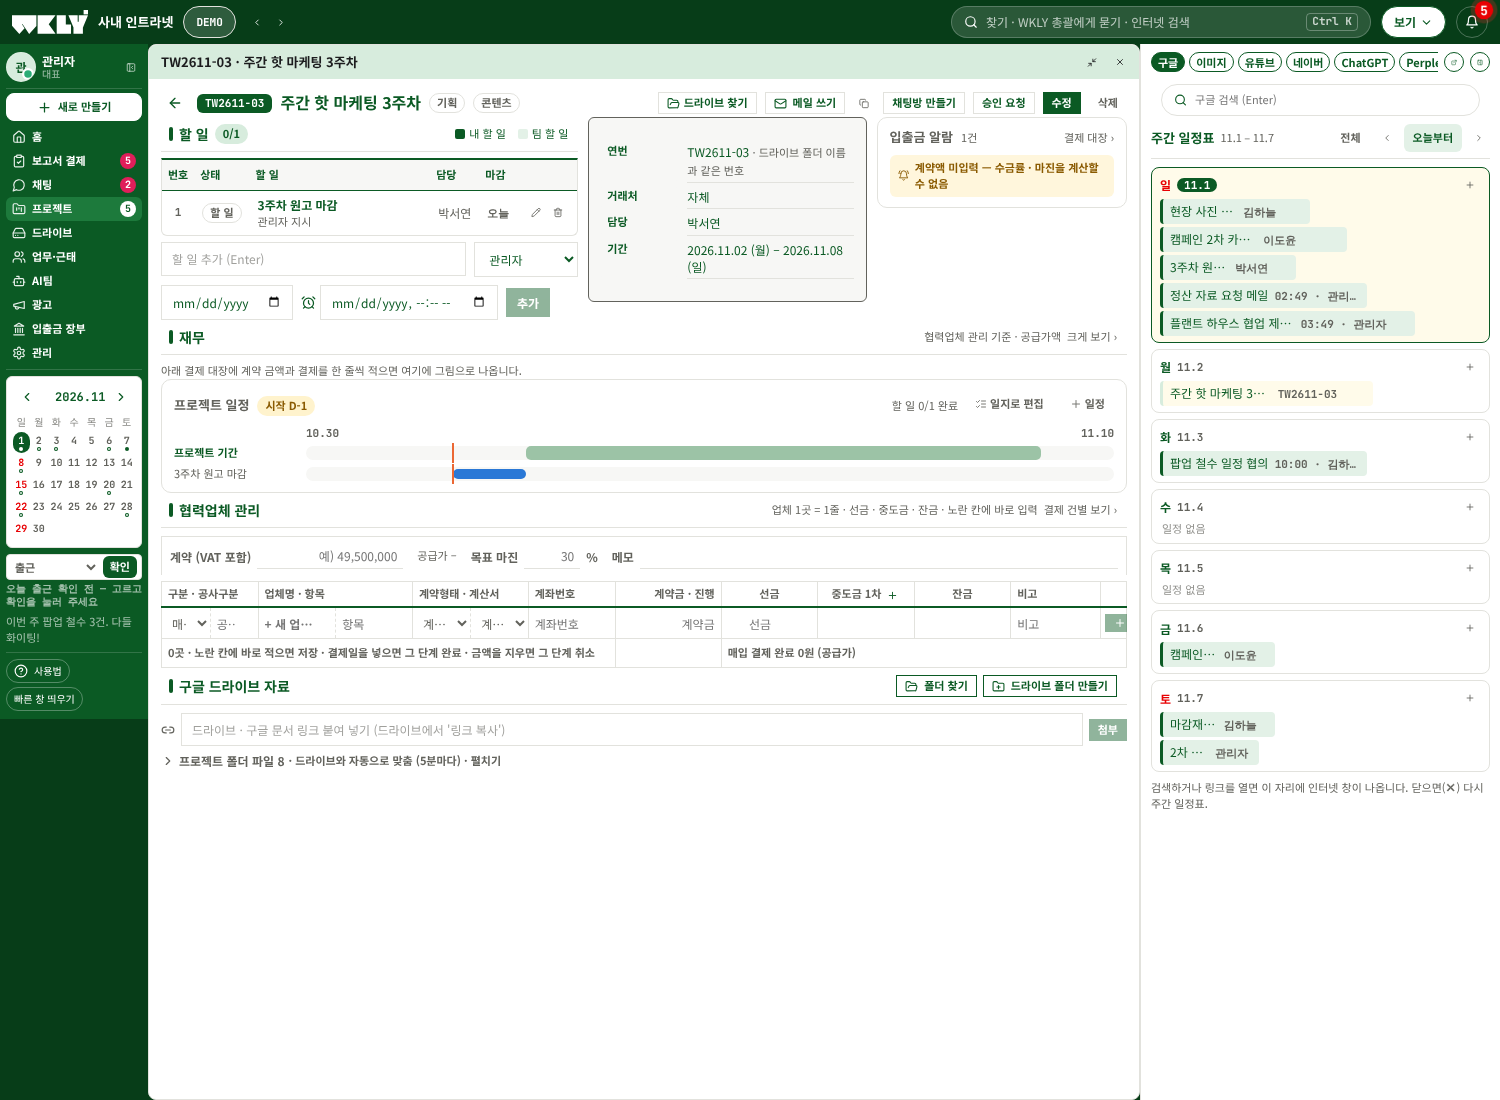
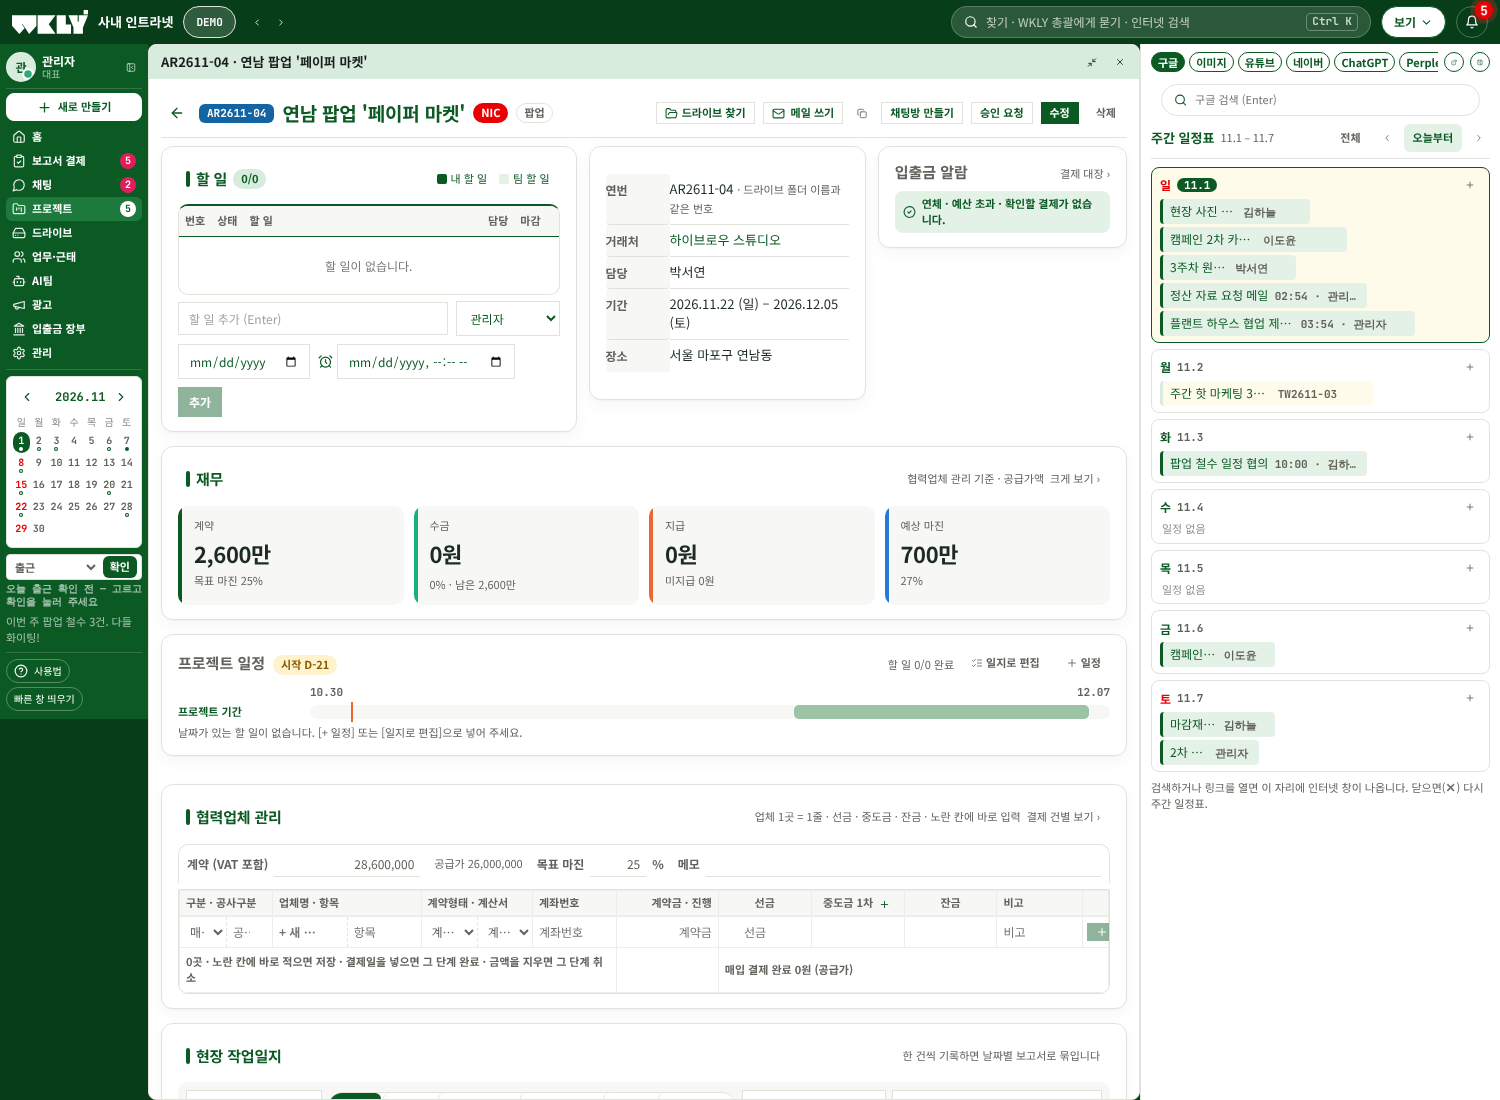
프로젝트 상세 디자인 고도화 (#229)
* 메모 링크 클릭 가능 · 일정표 프로젝트 고르기를 풀다운으로

- 메모 칸 아래 링크 칩(새 창), 저장된 메모의 링크도 클릭
- 일정표 프로젝트 칩 목록을 상태별 묶음 풀다운으로

Claude-Session: https://claude.ai/code/session_01F3gTQwJrgJEzSdbh5GAwru

* 일정표: NIC 프로젝트는 접힌 묶음으로

Claude-Session: https://claude.ai/code/session_01F3gTQwJrgJEzSdbh5GAwru

* WKLY 총괄 실시간 답(스트리밍) · 자료실 종류 풀다운 · 웹 패널 검색창 · 프로젝트 목록 묶음 구분

- agent-chat: 답을 쓰는 대로 Realtime 비공개 방송, 화면은 말풍선에 실시간 표시 (0062 정책)
- 자료실: 상태 · 종류 풀다운(실제 종류 전부 + 개수), 자주 쓰는 종류 칩, 상세에서 종류 · 상태 바로 변경
- 웹 패널 안에 검색창 다시 표시
- 프로젝트 검색 목록: 묶음 머리 색 · 개수 · 접기 (완료 · 보류는 접힘), 연번 표시

Claude-Session: https://claude.ai/code/session_01F3gTQwJrgJEzSdbh5GAwru

* 보고서 링크 클릭 · 업무 일지 입력칸 정리

- AI 보고서 요약 · 본문 속 링크를 모두 클릭 가능하게
- 업무 일지 입력: 종류 풀다운 · 분 · 기록 한 줄, 내용칸 넓게, 거래처 · 프로젝트는 아래 한 줄

Claude-Session: https://claude.ai/code/session_01F3gTQwJrgJEzSdbh5GAwru

* 업무 화면 정리: 할 일 오른쪽 창 · 프로젝트 구분 · 여백 정리

- 업무 일지의 할 일 · 메모장을 오른쪽 창으로 (좁은 화면은 아래), 할 일 버튼에 지연 개수
- 프로젝트 검색 목록: 상태 묶음 안에서 더위클리 · 아트리어 · 내부 리서치로 나눠 색 표시
- 뒤로 · 앞으로를 위쪽 바로 옮겨 가운데 위 한 줄 제거, 업무 머리줄 한 줄로

Claude-Session: https://claude.ai/code/session_01F3gTQwJrgJEzSdbh5GAwru

* 프로젝트: 가운데 목록 · 오른쪽 대시보드 요약/상세

- 넓은 화면 첫 화면: 가운데 프로젝트 목록, 오른쪽 창 대시보드 요약, 프로젝트를 누르면 오른쪽이 그 프로젝트 상세

Claude-Session: https://claude.ai/code/session_01F3gTQwJrgJEzSdbh5GAwru

* 디자인: 슬랙식 화면 · 키 컬러 초록(#0B5A24)

- 노란 바탕 · 점선 틀 제거, 창 가득 · 얇은 실선
- 위쪽 바 · 왼쪽 사이드바 짙은 초록, 본문 흰색, 선택 · 버튼 초록, 알림 숫자 빨강
- 아트리어 구분색 파랑, 브라우저 탭 색 · 아이콘 초록, 다크 모드 색 맞춤

Claude-Session: https://claude.ai/code/session_01F3gTQwJrgJEzSdbh5GAwru
[…]

diff --git a/erp/src/styles.css b/erp/src/styles.css
@@ -2746,3 +2746,57 @@ html.detail-full .detail-col.full .col-resize { display: none; }
 .proj-top3 { display: grid; grid-template-columns: minmax(0, 1.5fr) minmax(0, 1fr) minmax(0, 0.9fr); gap: 10px; align-items: start; }
 .proj-top3 > .box { margin: 0; }
 @media (max-width: 1100px) { .proj-top3 { grid-template-columns: 1fr; } }
+
+/* ───────── 프로젝트 상세 디자인 고도화 (2026-10-31) ─────────
+   카드 단위로 구역을 나누고(흰 바탕 · 옅은 테두리 · 그림자), 머리줄 고정, 숫자 강조, 표 머리 정리 */
+.proj-detail { display: flex; flex-direction: column; gap: 14px; padding-bottom: 24px; }
+.proj-detail .proj-head { position: sticky; top: 0; z-index: 6; background: var(--white); padding: 10px 2px; margin: -4px 0 -2px; border-bottom: 1px solid var(--line); gap: 8px; }
+.proj-detail .proj-head h2, .proj-detail .proj-head .proj-title { font-size: 19px; letter-spacing: -0.2px; }
+.proj-detail > .section,
+.proj-detail > .col,
+.proj-detail > .proj-top3 > *,
+.proj-detail > .proj-side-row > *,
+.proj-detail > .pviz-card,
+.proj-detail .pviz-row > .pviz-card {
+  background: var(--white);
+  border: 1px solid var(--line);
+  border-radius: 12px;
+  padding: 14px 16px;
+  box-shadow: 0 1px 2px rgba(18, 40, 24, 0.04), 0 6px 18px rgba(18, 40, 24, 0.04);
+}
+.proj-detail > .proj-top3 { gap: 12px; }
+.proj-detail > .proj-top3 > .box { margin: 0; border-width: 1px; }
+.proj-detail .section-h { border-bottom: 0; padding-bottom: 6px; margin-bottom: 2px; }
+.proj-detail .section-h .t-bodyb { font-size: 15px; letter-spacing: -0.2px; }
+.proj-detail .section-h::before { height: 16px; background: var(--blue); }
+/* 개요 */
+.proj-detail .kv { grid-template-columns: 64px 1fr; gap: 0; font-size: 13px; }
+.proj-detail .kv dt { padding: 7px 0; color: var(--gray); font-size: 12px; border-bottom: 1px solid var(--line); }
+.proj-detail .kv dd { padding: 6px 0; color: #1d2b21; border-bottom: 1px solid var(--line); }
+.proj-detail .kv dt:last-of-type, .proj-detail .kv dd:last-of-type { border-bottom: 0; }
+/* 재무 4칸 */
+.proj-detail .fin-tiles { gap: 10px; }
+.proj-detail .fin-tile { position: relative; border: 0; border-radius: 10px; background: var(--paper); padding: 12px 14px 12px 16px; overflow: hidden; }
+.proj-detail .fin-tile::before { content: ''; position: absolute; left: 0; top: 0; bottom: 0; width: 4px; background: var(--blue); }
+.proj-detail .fin-tile:nth-child(2)::before { background: #1baf7a; }
+.proj-detail .fin-tile:nth-child(3)::before { background: #eb6834; }
+.proj-detail .fin-tile:nth-child(4)::before { background: #2a78d6; }
+.proj-detail .fin-num { font-size: 22px; letter-spacing: -0.4px; color: #1d2b21; }
+/* 일정 · 알람 카드 */
+.proj-detail .pviz-card { gap: 8px; }
+.proj-detail .pviz-h b { font-size: 15px; }
+.proj-detail .pviz-alarm { border-radius: 8px; }
+/* 표 머리 · 줄 */
+.proj-detail .board th, .proj-detail .pay-sheet th { background: var(--paper); color: var(--gray); font-weight: 700; }
+.proj-detail .board tbody tr:hover > td { background: #f3f8f4; }
+.proj-detail .board-wrap { border-radius: 10px; overflow: hidden; }
+/* 협력업체 관리 표: 카드 안에서 테두리 가볍게 */
+.proj-detail .vendor-sheet td, .proj-detail .vendor-sheet th { border-color: #ececE8; }
+.proj-detail .contract-goal { border-radius: 10px 10px 0 0; }
+.proj-detail .pay-sheet-wrap { border: 1px solid var(--line); border-radius: 0 0 10px 10px; }
+/* 작업일지 기입 줄 */
+.proj-detail .site-entry { background: var(--paper); border: 0; border-radius: 10px; }
+.proj-detail .day-report { border-width: 1px; border-radius: 10px; box-shadow: inset 4px 0 0 var(--blue); }
+@media (max-width: 700px) {
+  .proj-detail > .section, .proj-detail > .col, .proj-detail > .proj-top3 > * { padding: 12px; border-radius: 10px; }
+}

diff --git a/erp/src/pages/Projects.tsx b/erp/src/pages/Projects.tsx
@@ -710,8 +710,8 @@ function ProjectDetail({ project: p, data, onEdit, onBack, panel = false }: { pr
   }
 
   return (
-    <>
-      <div className="row wrap">
+    <div className="proj-detail">
+      <div className="row wrap proj-head">
         <button type="button" className="icon-btn" onClick={onBack} aria-label="목록으로">
           <ArrowLeft size={18} />
         </button>
@@ -838,7 +838,7 @@ function ProjectDetail({ project: p, data, onEdit, onBack, panel = false }: { pr
       )}
       {editingTask && <TaskAssignModal key={editingTask.id} task={editingTask} projects={data.projects} tasks={data.tasks} onClose={() => setEditingTask(null)} />}
       {approving && <NewApproval preset={{ kind: '프로젝트', target_id: p.id, title: `프로젝트: ${p.name}` }} onClose={() => setApproving(false)} onCreated={id => navigate(`/approvals?view=mine&id=${id}`)} />}
-    </>
+    </div>
   )
 }
 
